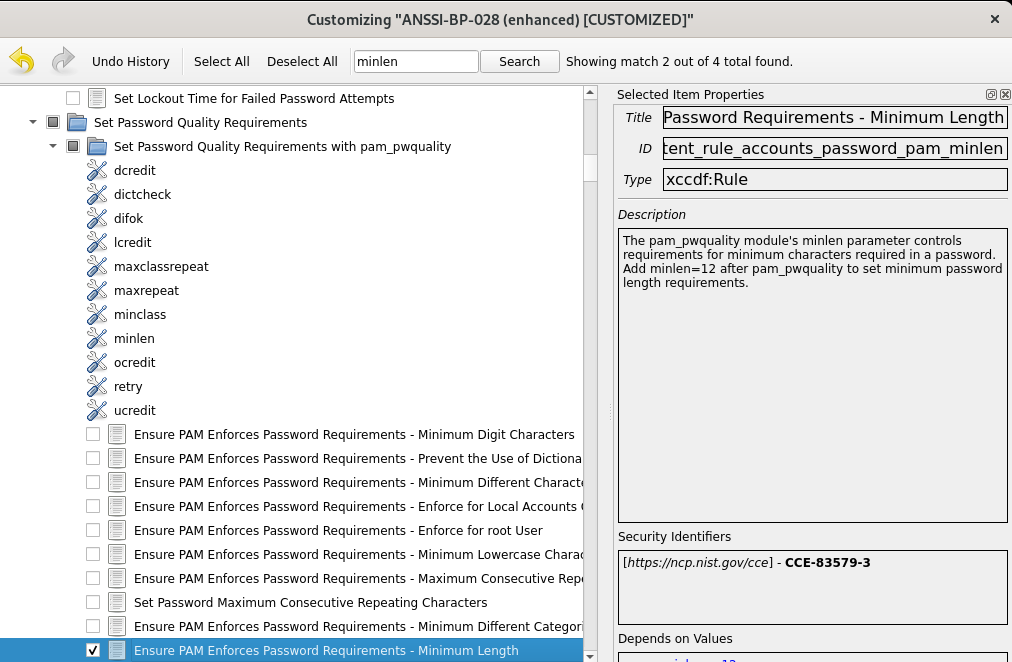
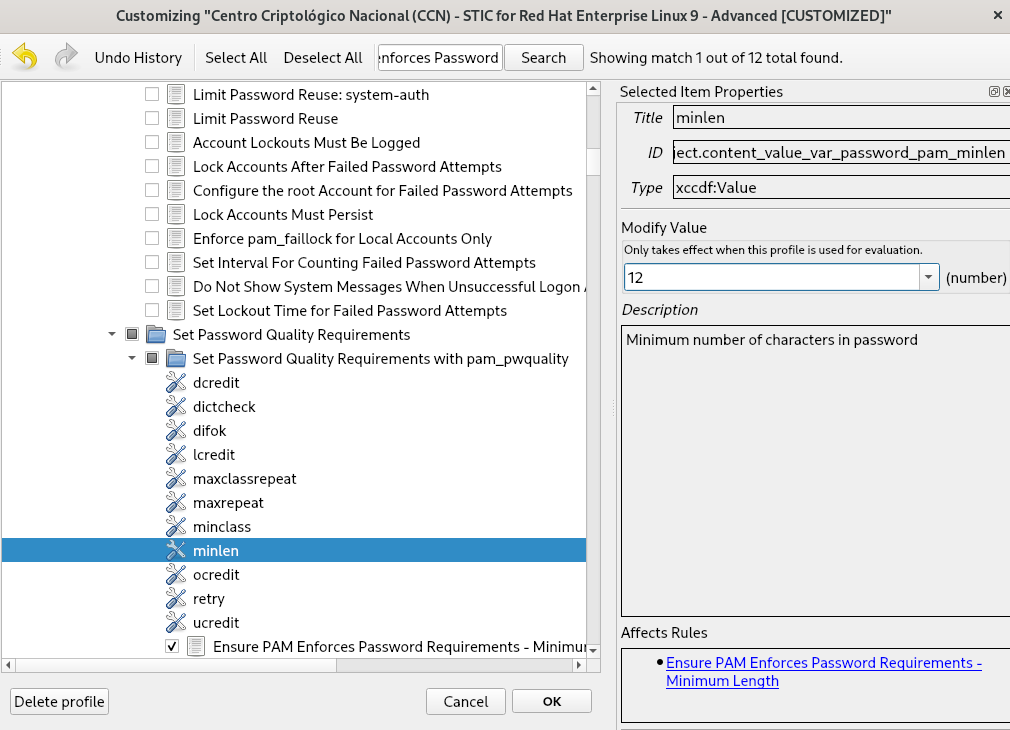
[CI] Publish Documentation for 13d544787c095eafeecdf110b3ac5913184c28d3 - 13d544787c095eafeecdf110b3ac5913184c28d3 🚀

Changed region(s): [[0.0, 0.0, 1.0, 1.0]]

diff --git a/openscap/03-compliance.html b/openscap/03-compliance.html
@@ -116,29 +116,44 @@
 <div class="content">
 <pre class="highlightjs highlight"><code class="language-bash hljs" data-lang="bash">[root@client ~]# oscap info /usr/share/xml/scap/ssg/content/ssg-rhel9-ds.xml
 ...
-Title: DISA STIG for Red Hat Enterprise Linux 9
-                                Id: xccdf_org.ssgproject.content_profile_stig
+Title: Centro Criptológico Nacional (CCN) - STIC for Red Hat Enterprise Linux 9 - Advanced
+				Id: xccdf_org.ssgproject.content_profile_ccn_advanced
 ...
 [root@client ~]#</code></pre>
 </div>
 </div>
 <div class="paragraph">
-<p>El profile <strong>DISA STIG</strong> es el que nosotros usaremos. Para evaluar el compliance usando este estándar y guardar los resultados en un fichero ejecutaremos:</p>
+<p>En RHEL 9 se incluyen varios perfiles de seguridad implementando las recomendaciones del <strong>Centro Criptológico Nacional (CCN)</strong>:</p>
+</div>
+<div class="ulist">
+<ul>
+<li>
+<p><strong>Centro Criptológico Nacional (CCN) (Advanced)</strong> para RHEL 9.</p>
+</li>
+<li>
+<p><strong>Centro Criptológico Nacional (CCN) (Intermediate)</strong> para RHEL 9.</p>
+</li>
+<li>
+<p><strong>Centro Criptológico Nacional (CCN) (Basic)</strong> para RHEL 9.</p>
+</li>
+</ul>
+</div>
+<div class="paragraph">
+<p>El profile <strong>Centro Criptológico Nacional (CCN) (Advanced)</strong> para RHEL 9 es el que nosotros usaremos. Para evaluar el compliance usando este estándar y guardar los resultados en un fichero ejecutaremos:</p>
 </div>
 <div class="listingblock">
 <div class="content">
-<pre class="highlightjs highlight"><code class="language-bash hljs" data-lang="bash">[root@client ~]# oscap xccdf eval --profile xccdf_org.ssgproject.content_profile_stig --results /root/results.xml /usr/share/xml/scap/ssg/content/ssg-rhel9-ds.xml
+<pre class="highlightjs highlight"><code class="language-bash hljs" data-lang="bash">[root@client ~]# oscap xccdf eval --profile xccdf_org.ssgproject.content_profile_ccn_advanced --results /root/results.xml /usr/share/xml/scap/ssg/content/ssg-rhel9-ds.xml
 ...
-Title   Record Events that Modify User/Group Information - /etc/shadow
-Rule    xccdf_org.ssgproject.content_rule_audit_rules_usergroup_modification_shadow
-Ident   CCE-83725-2
-Result  fail
-
-Title   System Audit Directories Must Be Group Owned By Root
-Rule    xccdf_org.ssgproject.content_rule_directory_group_ownership_var_log_audit
-Ident   CCE-90516-6
+Title   System Audit Logs Must Have Mode 0640 or Less Permissive
+Rule    xccdf_org.ssgproject.content_rule_file_permissions_var_log_audit
+Ident   CCE-83720-3
 Result  pass
 ...
+Title   Record Events that Modify the System's Discretionary Access Controls - chmod
+Rule    xccdf_org.ssgproject.content_rule_audit_rules_dac_modification_chmod
+Ident   CCE-83830-0
+Result  fail
 [root@client ~]#</code></pre>
 </div>
 </div>
@@ -184,7 +199,7 @@ Result  pass
 </div>
 </div>
 <div class="paragraph">
-<p>Vamos a <strong>Customize</strong> y seleccionamos un nombre de perfil. A continuación marcamos <strong>Deselect all</strong>, así empezaremos con todas las reglas deshabilitadas:</p>
+<p>Seleccionamos el profile de <strong>Centro Criptológico Nacional (CCN) - STIC for Red Hat Enterprise Linux 9 - Advanced</strong>. Vamos a <strong>Customize</strong> y seleccionamos un nombre de perfil, dejaremos el que crea por defecto. A continuación marcamos <strong>Deselect all</strong>, así empezaremos con todas las reglas deshabilitadas:</p>
 </div>
 <div class="imageblock">
 <div class="content">
@@ -192,7 +207,7 @@ Result  pass
 </div>
 </div>
 <div class="paragraph">
-<p>Marcaremos las siguientes opciones <strong>Ensure PAM Enforces Password Requirements - Minimum Lenght</strong>:</p>
+<p>Marcaremos las siguientes opciones <strong>Ensure PAM Enforces Password Requirements - Minimum Lenght<strong> y buscamos un poco más arriba la opción de </strong>minlen<strong> para setearlo a </strong>12</strong>*:</p>
 </div>
 <div class="imageblock">
 <div class="content">
@@ -208,12 +223,19 @@ Result  pass
 </div>
 </div>
 <div class="paragraph">
-<p>A continuación marcaremos la opción para instalar <strong>AIDE</strong> y también para hacer que <strong>audit</strong> registre todas las invocaciones de <strong>sudo</strong> definidas en <strong>sudoers</strong> y en <strong>sudoers.d</strong>:</p>
+<p>A continuación marcaremos la opción para instalar <strong>AIDE</strong> y también para instalar y habilitar el servicio de <strong>USBGuard</strong>:</p>
 </div>
 <div class="imageblock">
 <div class="content">
 <img src="_images/03-customizacion-aide.png" alt="03 customizacion aide">
 </div>
+</div>
+<div class="quoteblock">
+<blockquote>
+<div class="paragraph">
+<p>image::icons/information-icon.png[] El servicio <strong>AIDE</strong> o <strong>A</strong>dvanced <strong>I</strong>ntrusion <strong>D</strong>etection <strong>S</strong>ystem es un servicio que crea una base de datos del archivos del sistema que se utiliza para comprobar la integridad de los ficheros del sistema y poder detectar cuando un fichero del sistema ha sido modificado y poder detectar actividad maliciosa en el sistema.</p>
+</div>
+</blockquote>
 </div>
 <div class="paragraph">
 <p>Con lo que tendremos un <strong>tailoring file</strong> con estas 4 reglas definidas:</p>

diff --git a/openscap/02-instalacion.html b/openscap/02-instalacion.html
@@ -112,7 +112,7 @@
 <h2 id="instalacion"><a class="anchor" href="#instalacion"></a>Instalación de OpenSCAP</h2>
 <div class="sectionbody">
 <div class="paragraph">
-<p>Todo el lab se ejecutará en el mismo servidor, por ello vamos a instalar toda la paquetería en el mismo sistema:</p>
+<p>Todo el lab se ejecutará en el mismo servidor, por ello vamos a instalar toda la paquetería en el mismo sistema (la imagen que hemos instalado ya tiene los paquetes necesarios por lo que no hace falta este paso):</p>
 </div>
 <div class="listingblock lines_7 console-input">
 <div class="content">
@@ -120,13 +120,13 @@
 </div>
 </div>
 <div class="paragraph">
-<p>El paquete <strong>openscap-scanner</strong> instala la herramienta <em>oscap</em> desde la cuál podremos lanzar los escaneos de compliance sobre nuestros sistemas, generar reports o incluso generar las remediaciones con Ansible.</p>
+<p>El paquete <strong>openscap-scanner</strong> instala la herramienta <em>oscap</em> desde la cual podremos lanzar los escaneos de compliance sobre nuestros sistemas, generar reports o incluso generar las remediaciones con Ansible.</p>
 </div>
 <div class="paragraph">
 <p>El paquete <strong>scap-security-guide</strong> instala los data streams necesarios en la ruta <em>/usr/share/xml/scap/ssg/content/</em>. Este data stream contiene la información de todos los perfiles de SCAP con sus reglas asociadas para evaluar el compliance de un scan o también para generar las remediaciones. Esta información está en el fichero <em>XCCDF</em> (Extensible Configuration Checklist Description File) <em>ssg-rhel9-xccdf.xml</em>.</p>
 </div>
 <div class="paragraph">
-<p>Por último el paquete <strong>scap-workbench</strong> nos servirá para generar perfiles custom de compliance, como veremos más adelante. Sólo añadir que también permite evaluar el compliance en local o en sistemas remotos a través de <em>SSH</em>.</p>
+<p>Por último el paquete <strong>scap-workbench</strong> nos servirá para generar perfiles custom de compliance, como veremos más adelante. Solamente añadir que también permite evaluar el compliance en local o en sistemas remotos a través de <em>SSH</em>.</p>
 </div>
 </div>
 </div>
